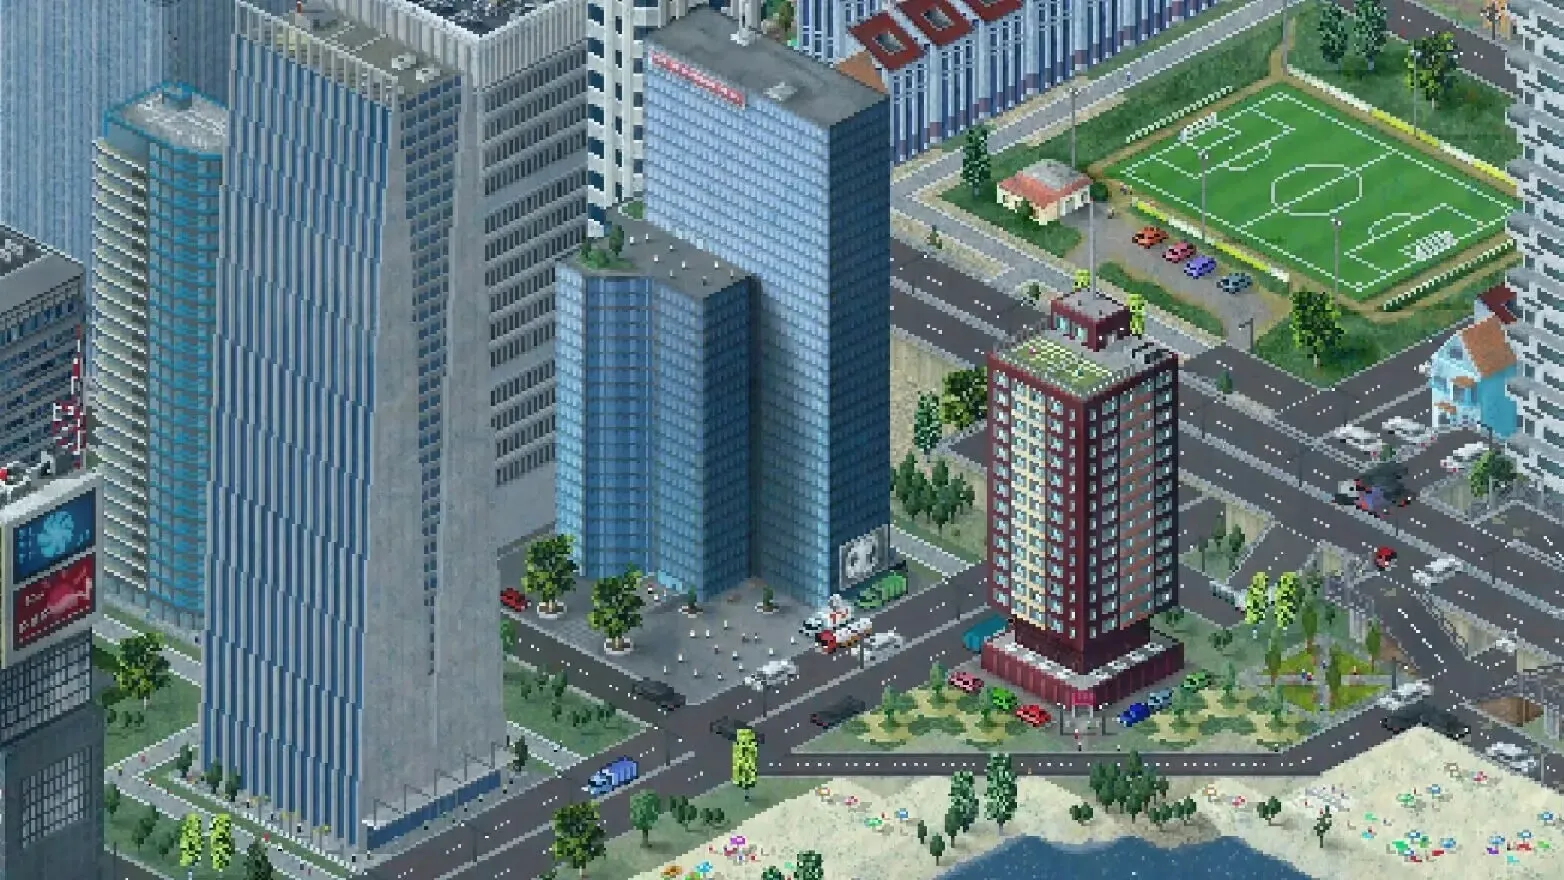
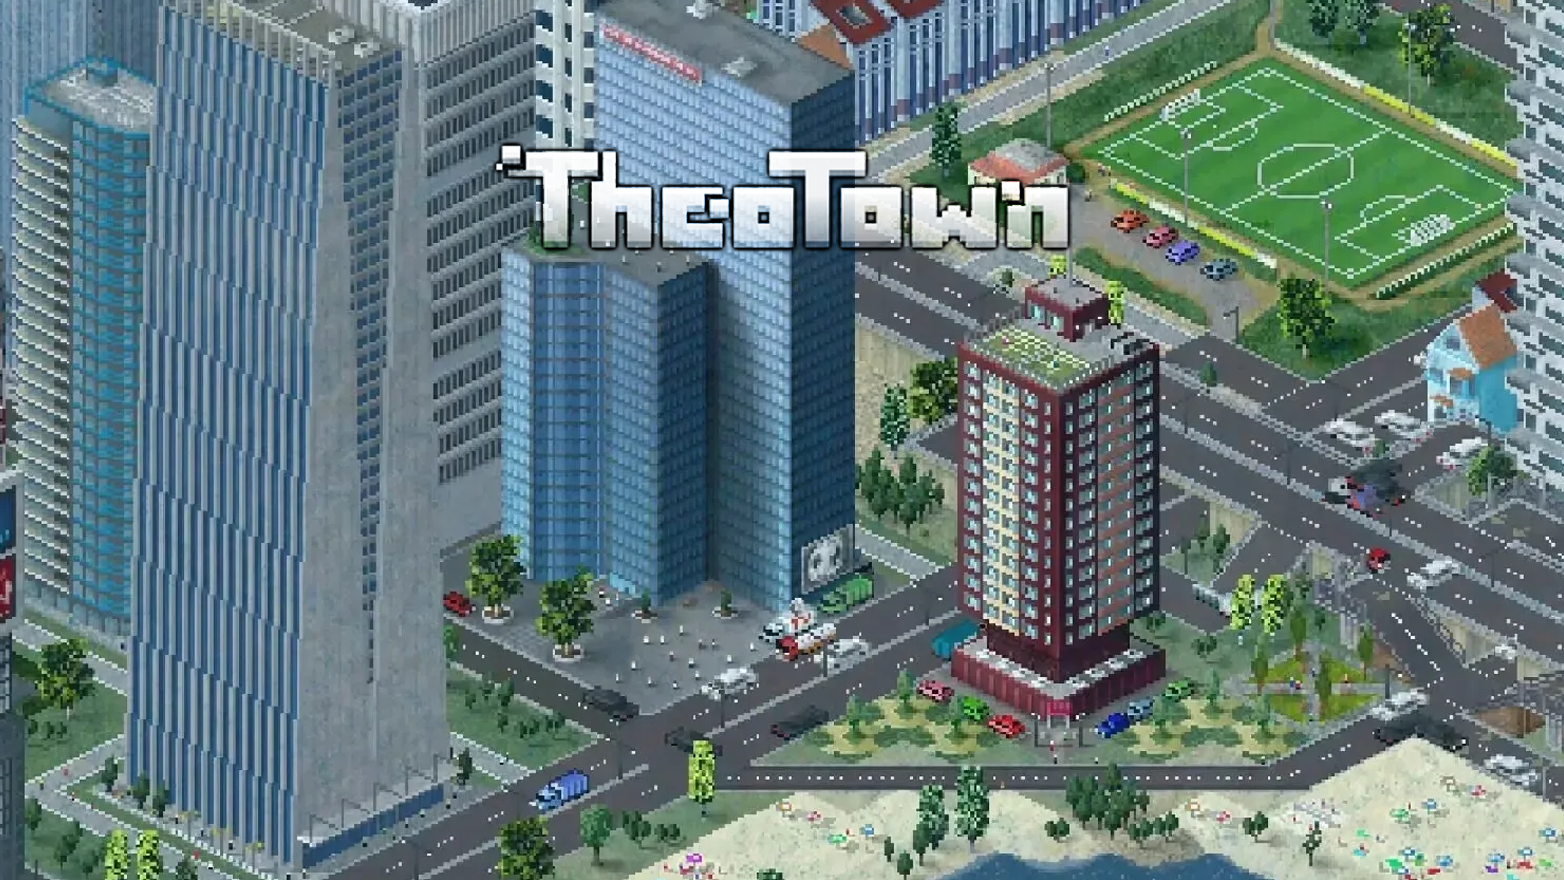
update

diff --git a/index.html b/index.html
@@ -8,7 +8,7 @@
   <meta name="theme-color" content="#04211f">
   <title>TheoCraft</title>
   <meta name="description"
-    content="TheoCraft 是一款桌面端工具：把 TheoTown 的城市存档转换成 Minecraft 存档 / 蓝图，在方块世界里重建你的像素都市。全程本地转换，不上传任何存档，也没有在线转换服务。">
+    content="TheoCraft————用Minecraft打开你的西奥城市！">
 
   <!-- 主题判定放在最前面：深色模式用户不会先看到一瞬白屏 -->
   <script>
@@ -125,10 +125,6 @@
 
         <!-- 压暗层：保证导航栏与文案在任何截图上都能看清 -->
         <div class="hero__scrim" aria-hidden="true"></div>
-
-        <span class="tag tag--before">TheoTown</span>
-        <span class="tag tag--after">Minecraft</span>
-      </div>
 
       <!-- 文案层：鼠标移上来时，整张对比图高斯模糊以突出文字 -->
       <div class="hero__content">
@@ -275,7 +271,7 @@
     <div class="container">
       <div class="footer__top">
         <a class="logo logo--footer" href="index.html" aria-label="TheoCraft 首页">
-          <img class="logo__mark" src="assets/icon/logo.svg" alt="" width="30" height="30">
+          <img class="logo__mark" src="assets/icon/Sicon.svg" alt="" width="30" height="30">
           <span class="logo__text">Theo<em>C</em>raft</span>
         </a>
         <p class="footer__tagline">把你的西奥城市，搬进方块世界。</p>
@@ -307,18 +303,16 @@
         <div class="footer__col">
           <h3 class="footer__col-title">外部相关链接</h3>
           <ul class="footer__list">
-            <!-- 链接待补充 -->
-            <li><a href="#" data-todo title="待补充">Chunkoid 安卓转换器</a></li>
-            <li><a href="https://github.com/HiveGamesOSS/Chunker" target="_blank" rel="noopener">Chunker 转换器</a></li>
-            <!-- 链接待补充 -->
-            <li><a href="#" data-todo title="待补充">TheoTown</a></li>
+            <li><a href="https://www.chunkoid.top" target="_blank" rel="noopener">Chunkoid 安卓转换器</a></li>
+            <li><a href="https://www.chunker.app" target="_blank" rel="noopener">Chunker 转换器</a></li>
+            <li><a href="https://www.theotown.com/" target="_blank" rel="noopener">TheoTown</a></li>
             <li><a href="https://www.minecraft.net/" target="_blank" rel="noopener">Minecraft</a></li>
           </ul>
         </div>
       </div>
 
       <div class="footer__bottom">
-        <p class="footer__copy">© <span id="footerYear">2026</span> TheoCraft</p>
+        <p class="footer__copy">© <span id="footerYear">2026</span> TheoCraft Team</p>
         <p class="footer__legal">非官方粉丝工具，与 TheoTown 开发者及 Mojang Studios 无关联。</p>
       </div>
     </div>

diff --git a/plugins/index.html b/plugins/index.html
@@ -187,7 +187,7 @@
     <div class="container">
       <div class="footer__top">
         <a class="logo logo--footer" href="../index.html" aria-label="TheoCraft 首页">
-          <img class="logo__mark" src="../assets/icon/logo.svg" alt="" width="30" height="30">
+          <img class="logo__mark" src="../assets/icon/Sicon.svg" alt="" width="30" height="30">
           <span class="logo__text">Theo<em>C</em>raft</span>
         </a>
         <p class="footer__tagline">把你的西奥城市，搬进方块世界。</p>
@@ -219,18 +219,16 @@
         <div class="footer__col">
           <h3 class="footer__col-title">外部相关链接</h3>
           <ul class="footer__list">
-            <!-- 链接待补充 -->
-            <li><a href="#" data-todo title="待补充">Chunkoid 安卓转换器</a></li>
-            <li><a href="https://github.com/HiveGamesOSS/Chunker" target="_blank" rel="noopener">Chunker 转换器</a></li>
-            <!-- 链接待补充 -->
-            <li><a href="#" data-todo title="待补充">TheoTown</a></li>
+            <li><a href="https://www.chunkoid.top" target="_blank" rel="noopener">Chunkoid 安卓转换器</a></li>
+            <li><a href="https://www.chunker.app" target="_blank" rel="noopener">Chunker 转换器</a></li>
+            <li><a href="https://www.theotown.com/" target="_blank" rel="noopener">TheoTown</a></li>
             <li><a href="https://www.minecraft.net/" target="_blank" rel="noopener">Minecraft</a></li>
           </ul>
         </div>
       </div>
-
+      
       <div class="footer__bottom">
-        <p class="footer__copy">© <span id="footerYear">2026</span> TheoCraft</p>
+        <p class="footer__copy">© <span id="footerYear">2026</span> TheoCraft Team</p>
         <p class="footer__legal">非官方粉丝工具，与 TheoTown 开发者及 Mojang Studios 无关联。</p>
       </div>
     </div>

diff --git a/about/index.html b/about/index.html
@@ -124,7 +124,7 @@
     <div class="container">
       <div class="footer__top">
         <a class="logo logo--footer" href="../index.html" aria-label="TheoCraft 首页">
-          <img class="logo__mark" src="../assets/icon/logo.svg" alt="" width="30" height="30">
+          <img class="logo__mark" src="../assets/icon/Sicon.svg" alt="" width="30" height="30">
           <span class="logo__text">Theo<em>C</em>raft</span>
         </a>
         <p class="footer__tagline">把你的西奥城市，搬进方块世界。</p>
@@ -156,18 +156,16 @@
         <div class="footer__col">
           <h3 class="footer__col-title">外部相关链接</h3>
           <ul class="footer__list">
-            <!-- 链接待补充 -->
-            <li><a href="#" data-todo title="待补充">Chunkoid 安卓转换器</a></li>
-            <li><a href="https://github.com/HiveGamesOSS/Chunker" target="_blank" rel="noopener">Chunker 转换器</a></li>
-            <!-- 链接待补充 -->
-            <li><a href="#" data-todo title="待补充">TheoTown</a></li>
+            <li><a href="https://www.chunkoid.top" target="_blank" rel="noopener">Chunkoid 安卓转换器</a></li>
+            <li><a href="https://www.chunker.app" target="_blank" rel="noopener">Chunker 转换器</a></li>
+            <li><a href="https://www.theotown.com/" target="_blank" rel="noopener">TheoTown</a></li>
             <li><a href="https://www.minecraft.net/" target="_blank" rel="noopener">Minecraft</a></li>
           </ul>
         </div>
       </div>
 
       <div class="footer__bottom">
-        <p class="footer__copy">© <span id="footerYear">2026</span> TheoCraft</p>
+        <p class="footer__copy">© <span id="footerYear">2026</span> TheoCraft Team</p>
         <p class="footer__legal">非官方粉丝工具，与 TheoTown 开发者及 Mojang Studios 无关联。</p>
       </div>
     </div>

diff --git a/download/index.html b/download/index.html
@@ -303,7 +303,7 @@
     <div class="container">
       <div class="footer__top">
         <a class="logo logo--footer" href="../index.html" aria-label="TheoCraft 首页">
-          <img class="logo__mark" src="../assets/icon/logo.svg" alt="" width="30" height="30">
+          <img class="logo__mark" src="../assets/icon/Sicon.svg" alt="" width="30" height="30">
           <span class="logo__text">Theo<em>C</em>raft</span>
         </a>
         <p class="footer__tagline">把你的西奥城市，搬进方块世界。</p>
@@ -335,18 +335,16 @@
         <div class="footer__col">
           <h3 class="footer__col-title">外部相关链接</h3>
           <ul class="footer__list">
-            <!-- 链接待补充 -->
-            <li><a href="#" data-todo title="待补充">Chunkoid 安卓转换器</a></li>
-            <li><a href="https://github.com/HiveGamesOSS/Chunker" target="_blank" rel="noopener">Chunker 转换器</a></li>
-            <!-- 链接待补充 -->
-            <li><a href="#" data-todo title="待补充">TheoTown</a></li>
+            <li><a href="https://www.chunkoid.top" target="_blank" rel="noopener">Chunkoid 安卓转换器</a></li>
+            <li><a href="https://www.chunker.app" target="_blank" rel="noopener">Chunker 转换器</a></li>
+            <li><a href="https://www.theotown.com/" target="_blank" rel="noopener">TheoTown</a></li>
             <li><a href="https://www.minecraft.net/" target="_blank" rel="noopener">Minecraft</a></li>
           </ul>
         </div>
       </div>
 
       <div class="footer__bottom">
-        <p class="footer__copy">© <span id="footerYear">2026</span> TheoCraft</p>
+        <p class="footer__copy">© <span id="footerYear">2026</span> TheoCraft Team</p>
         <p class="footer__legal">非官方粉丝工具，与 TheoTown 开发者及 Mojang Studios 无关联。</p>
       </div>
     </div>

diff --git a/wiki/index.html b/wiki/index.html
@@ -153,7 +153,7 @@
     <div class="container">
       <div class="footer__top">
         <a class="logo logo--footer" href="../index.html" aria-label="TheoCraft 首页">
-          <img class="logo__mark" src="../assets/icon/logo.svg" alt="" width="30" height="30">
+          <img class="logo__mark" src="../assets/icon/Sicon.svg" alt="" width="30" height="30">
           <span class="logo__text">Theo<em>C</em>raft</span>
         </a>
         <p class="footer__tagline">把你的西奥城市，搬进方块世界。</p>
@@ -185,18 +185,16 @@
         <div class="footer__col">
           <h3 class="footer__col-title">外部相关链接</h3>
           <ul class="footer__list">
-            <!-- 链接待补充 -->
-            <li><a href="#" data-todo title="待补充">Chunkoid 安卓转换器</a></li>
-            <li><a href="https://github.com/HiveGamesOSS/Chunker" target="_blank" rel="noopener">Chunker 转换器</a></li>
-            <!-- 链接待补充 -->
-            <li><a href="#" data-todo title="待补充">TheoTown</a></li>
+            <li><a href="https://www.chunkoid.top" target="_blank" rel="noopener">Chunkoid 安卓转换器</a></li>
+            <li><a href="https://www.chunker.app" target="_blank" rel="noopener">Chunker 转换器</a></li>
+            <li><a href="https://www.theotown.com/" target="_blank" rel="noopener">TheoTown</a></li>
             <li><a href="https://www.minecraft.net/" target="_blank" rel="noopener">Minecraft</a></li>
           </ul>
         </div>
       </div>
 
       <div class="footer__bottom">
-        <p class="footer__copy">© <span id="footerYear">2026</span> TheoCraft</p>
+        <p class="footer__copy">© <span id="footerYear">2026</span> TheoCraft Team</p>
         <p class="footer__legal">非官方粉丝工具，与 TheoTown 开发者及 Mojang Studios 无关联。</p>
       </div>
     </div>

diff --git a/style.css b/style.css
@@ -146,30 +146,6 @@
 }
 .hero.is-focus .hero__scrim { opacity: 1; }
 
-/* --- 左上 / 右上标签 --- */
-.tag {
-  position: absolute; top: calc(var(--nav-h) + 18px); z-index: 3;
-  padding: 6px 10px;
-  border-radius: var(--r-xs);
-  font-family: var(--font-mono);
-  font-size: 11px; font-weight: 700; letter-spacing: .1em; text-transform: uppercase;
-  -webkit-backdrop-filter: blur(8px);
-  backdrop-filter: blur(8px);
-  pointer-events: none;
-  transition: opacity .8s var(--ease);
-  animation: heroIn .9s var(--ease) .5s backwards;
-}
-.tag--before {
-  left: max(24px, calc((100% - var(--container)) / 2));
-  background: rgba(4, 33, 31, .68); color: var(--teal-200);
-  border: 1px solid rgba(155, 227, 217, .38);
-}
-.tag--after {
-  right: max(24px, calc((100% - var(--container)) / 2));
-  background: rgba(60, 122, 32, .78); color: #eaf7dc;
-  border: 1px solid rgba(200, 232, 168, .45);
-}
-
 /* 文案层 */
 .hero__content {
   position: absolute; inset: 0; z-index: 4;
